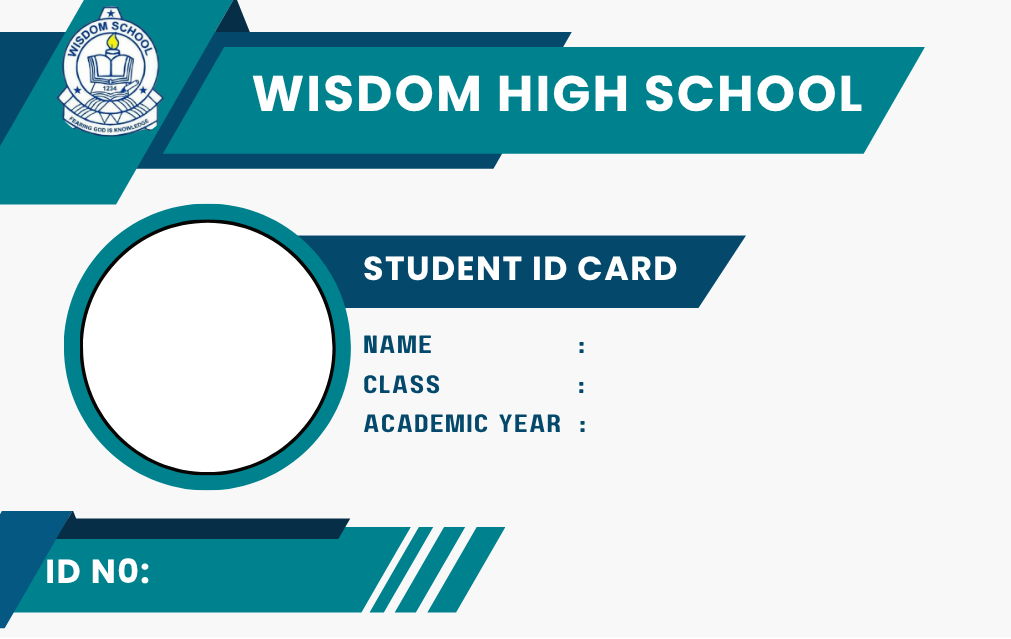
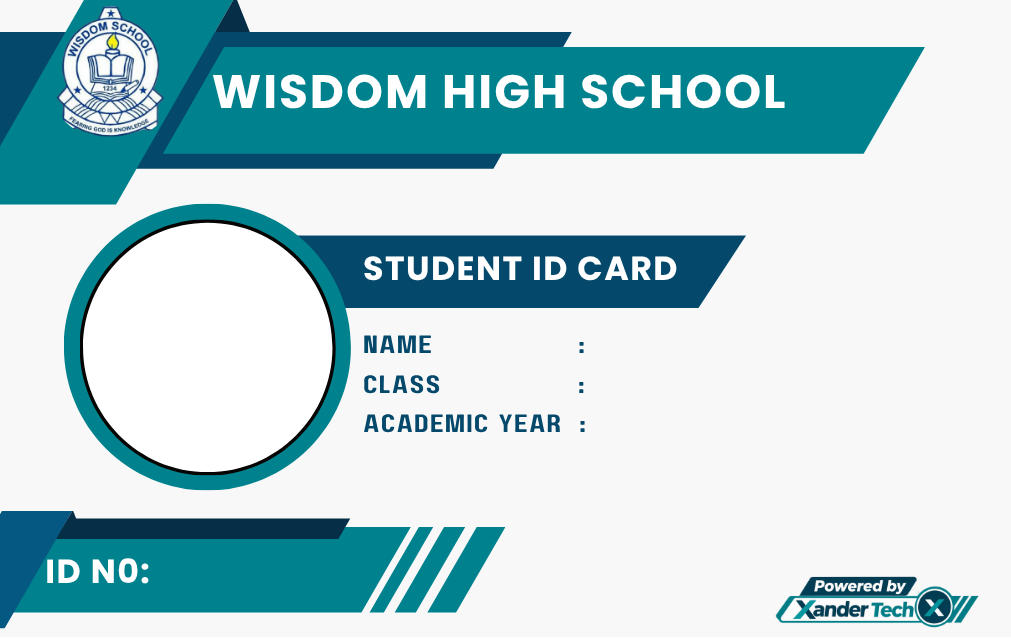
Use high-school student-card artwork for remaining Wisdom students except nursery.

Changed region(s): [[0.2146, 0.1189, 0.8586, 0.1784], [0.7666, 0.892, 0.9812, 0.9812]]

diff --git a/app/Libraries/WisdomCardRenderer.php b/app/Libraries/WisdomCardRenderer.php
@@ -3,7 +3,7 @@
 namespace App\Libraries;
 
 /**
- * Rasterize student ID cards onto Wisdom pass PNGs (high school or primary).
+ * Rasterize student ID cards onto Wisdom pass PNGs (high school, primary, or nursery).
  * Photo (circle) + NAME / CLASS / ACADEMIC YEAR / ID NO overlays.
  * Output: 1712×1080 JPEG (20 px/mm CR80) for Cr80ImagePdf.
  * Wisdom schools only — caller must gate with is_wisdom_school().
@@ -17,9 +17,11 @@ class WisdomCardRenderer
 	private const SRC_W = 1011;
 	private const SRC_H = 639;
 
-	/** Non-primary Wisdom classes (nursery / O-level / A-level / etc.). */
+	/** O-level / A-level / other non-primary, non-nursery Wisdom classes. */
 	public const TEMPLATE = 'assets/images/background/wisdom_high_school_pass_template.png';
 	public const TEMPLATE_PRIMARY = 'assets/images/background/wisdom_primary_pass_template.png';
+	/** Nursery keeps the previous Musanze pass artwork. */
+	public const TEMPLATE_NURSERY = 'assets/images/background/wisdom_nursery_pass_template.png';
 	/** Legacy fallback if the high-school PNG is missing. */
 	public const TEMPLATE_LEGACY = 'assets/images/background/student_pass_template.png';
 
@@ -40,7 +42,17 @@ class WisdomCardRenderer
 
 	public static function templateForStudent(array $student): string
 	{
-		return CardLayout::isWisdomPrimaryStudent($student) ? self::TEMPLATE_PRIMARY : self::TEMPLATE;
+		if (CardLayout::isWisdomPrimaryStudent($student)) {
+			return self::TEMPLATE_PRIMARY;
+		}
+		if (CardLayout::isWisdomNurseryStudent($student)) {
+			$abs = rtrim(FCPATH, '/\\') . DIRECTORY_SEPARATOR
+				. str_replace('/', DIRECTORY_SEPARATOR, self::TEMPLATE_NURSERY);
+			if (is_file($abs)) {
+				return self::TEMPLATE_NURSERY;
+			}
+		}
+		return self::TEMPLATE;
 	}
 
 	public static function isAvailable(): bool

diff --git a/app/Libraries/CardLayout.php b/app/Libraries/CardLayout.php
@@ -349,15 +349,27 @@ class CardLayout
 	}
 
 	/**
+	 * True for Wisdom nursery (N1–N3 / baby–top class) students.
+	 */
+	public static function isWisdomNurseryStudent(array $student): bool
+	{
+		$hay = self::wisdomStudentPathHaystack($student);
+		return (bool) preg_match(
+			'/\b(nurs(?:e|ery|ary)|maternelle|baby\s*class|middle\s*class|top\s*class|\bn[1-3]\b)\b/',
+			$hay
+		);
+	}
+
+	/**
 	 * True for Wisdom primary (P1–P6) students — use primary pass PNG.
 	 * Nursery / secondary are excluded.
 	 */
 	public static function isWisdomPrimaryStudent(array $student): bool
 	{
-		$hay = self::wisdomStudentPathHaystack($student);
-		if (preg_match('/\b(nurs(?:e|ery|ary)|maternelle|baby\s*class|middle\s*class|top\s*class|\bn[1-3]\b)\b/', $hay)) {
+		if (self::isWisdomNurseryStudent($student)) {
 			return false;
 		}
+		$hay = self::wisdomStudentPathHaystack($student);
 		return (bool) preg_match('/\b(primary|primaire|p[1-6])\b/', $hay);
 	}
 

diff --git a/app/Views/templates/student_card_smart.php b/app/Views/templates/student_card_smart.php
@@ -358,9 +358,7 @@ $fit = static function (string $text, array $f, float $max = 3.2, float $min = 1
 			$infoY = (float) ($namesF['y'] ?? 49.6);
 			$infoH = ((float) ($yearF['y'] ?? 66.2) + (float) ($yearF['h'] ?? 7.6)) - $infoY;
 			$infoF = ['x' => $namesF['x'] ?? 42.8, 'y' => $infoY, 'w' => $namesF['w'] ?? 54.5, 'h' => $infoH];
-			$passTpl = CardLayout::isWisdomPrimaryStudent($student)
-				? \App\Libraries\WisdomCardRenderer::TEMPLATE_PRIMARY
-				: \App\Libraries\WisdomCardRenderer::TEMPLATE;
+			$passTpl = \App\Libraries\WisdomCardRenderer::templateForStudent($student);
 			$tplBg = asset_card_img_src($passTpl, CardLayout::WISDOM_CHROME, 1800, 1200);
 		?>
 			<?php if ($tplBg): ?>
